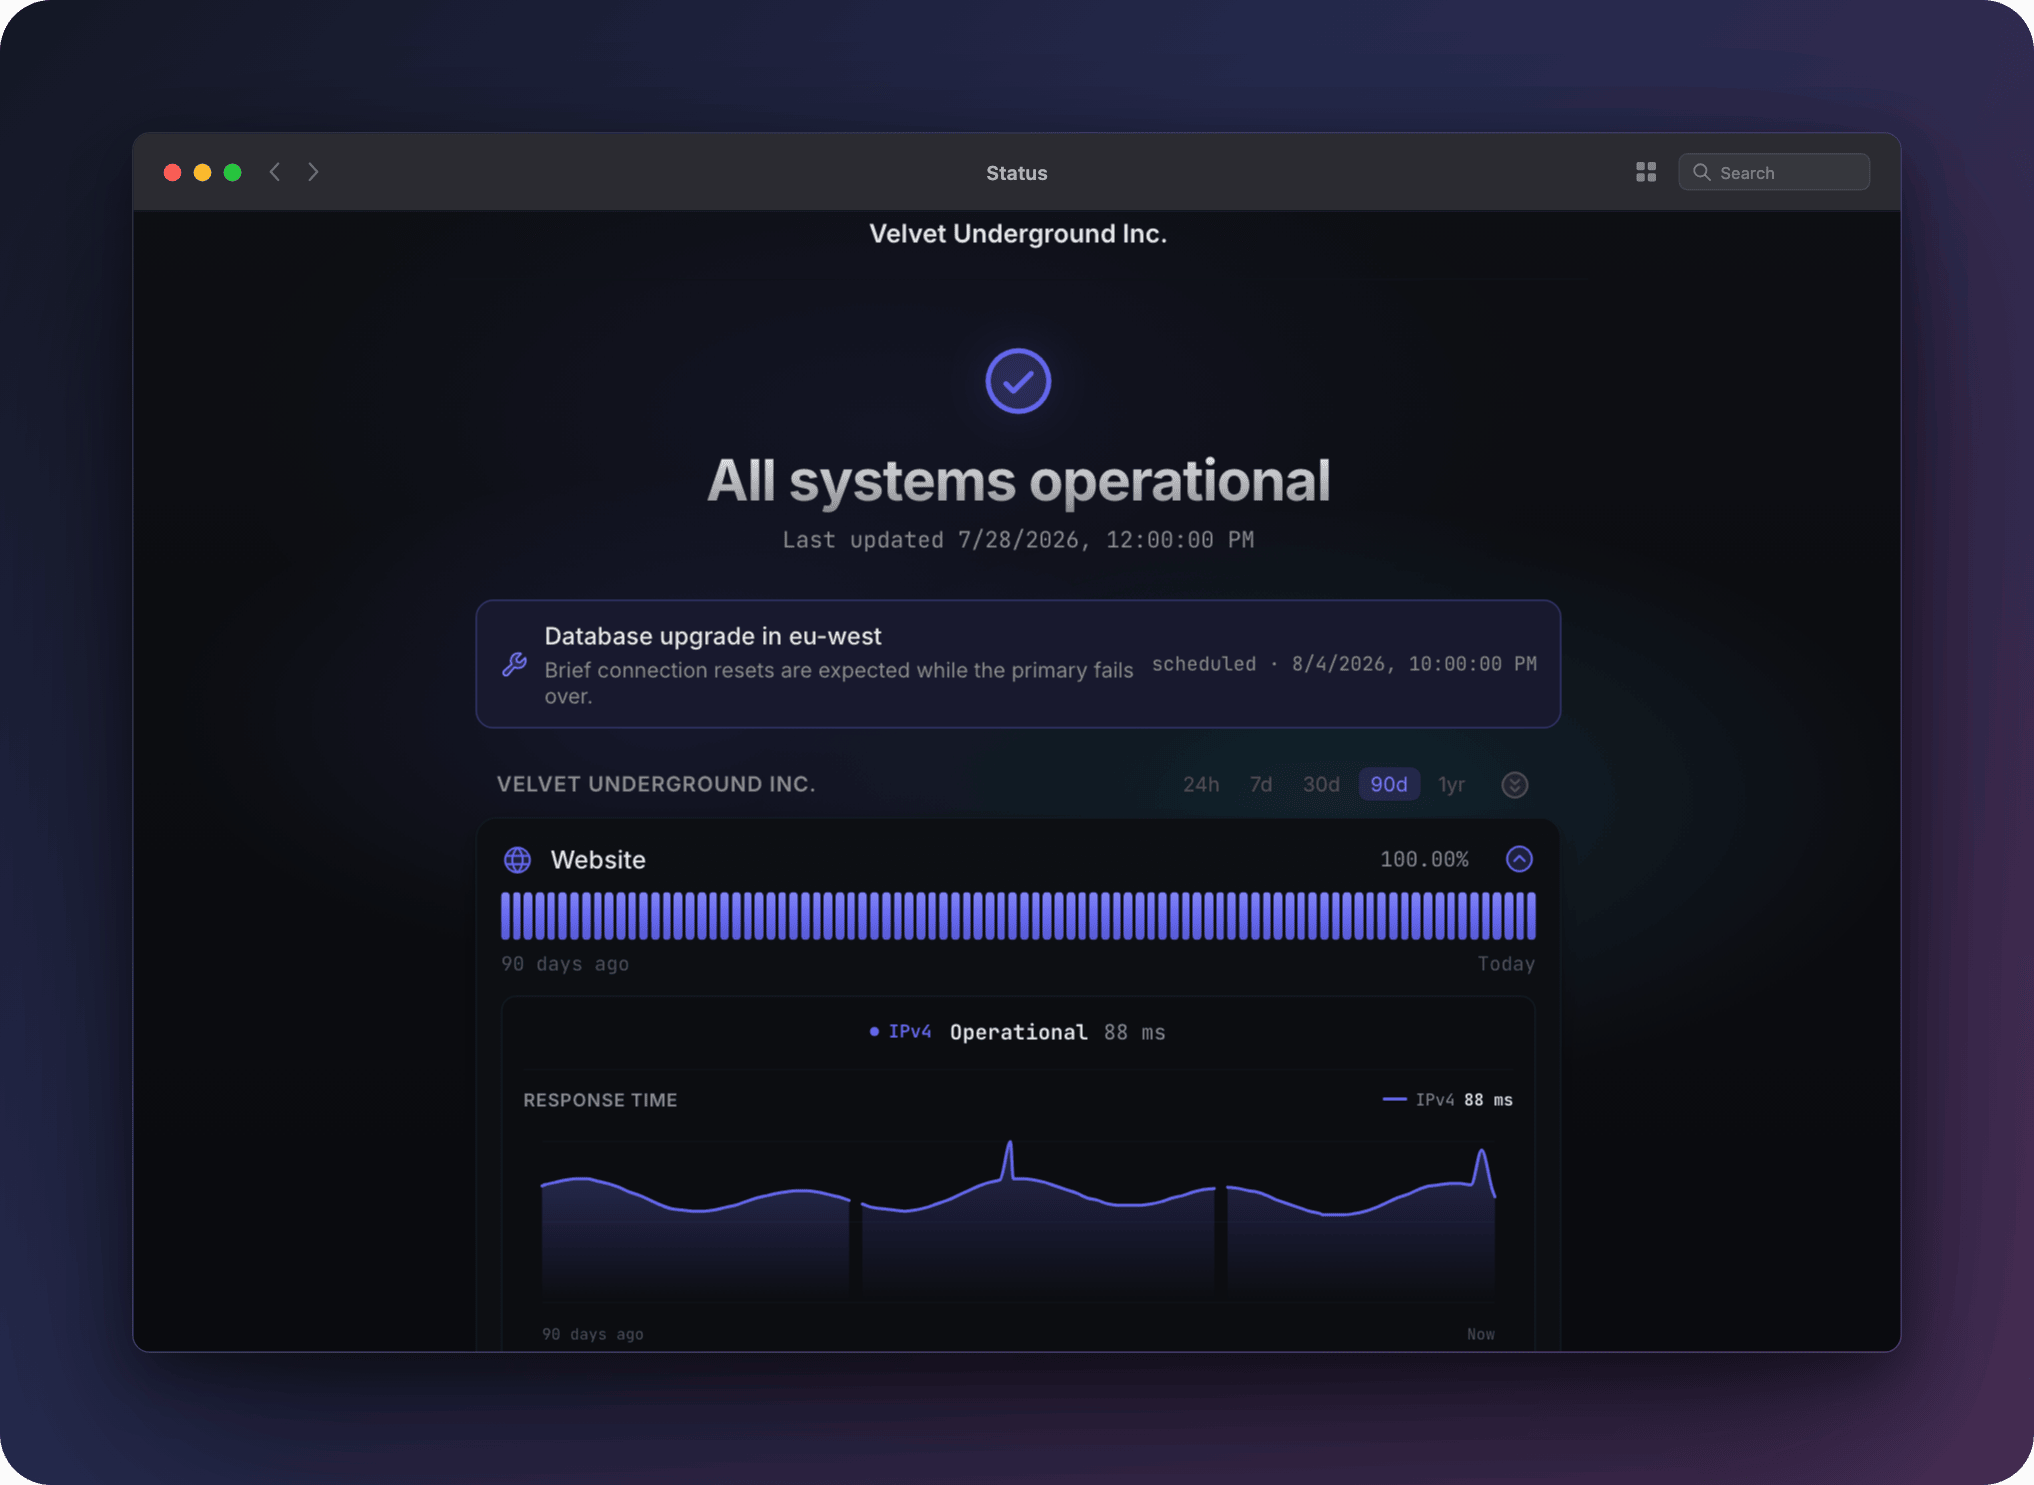
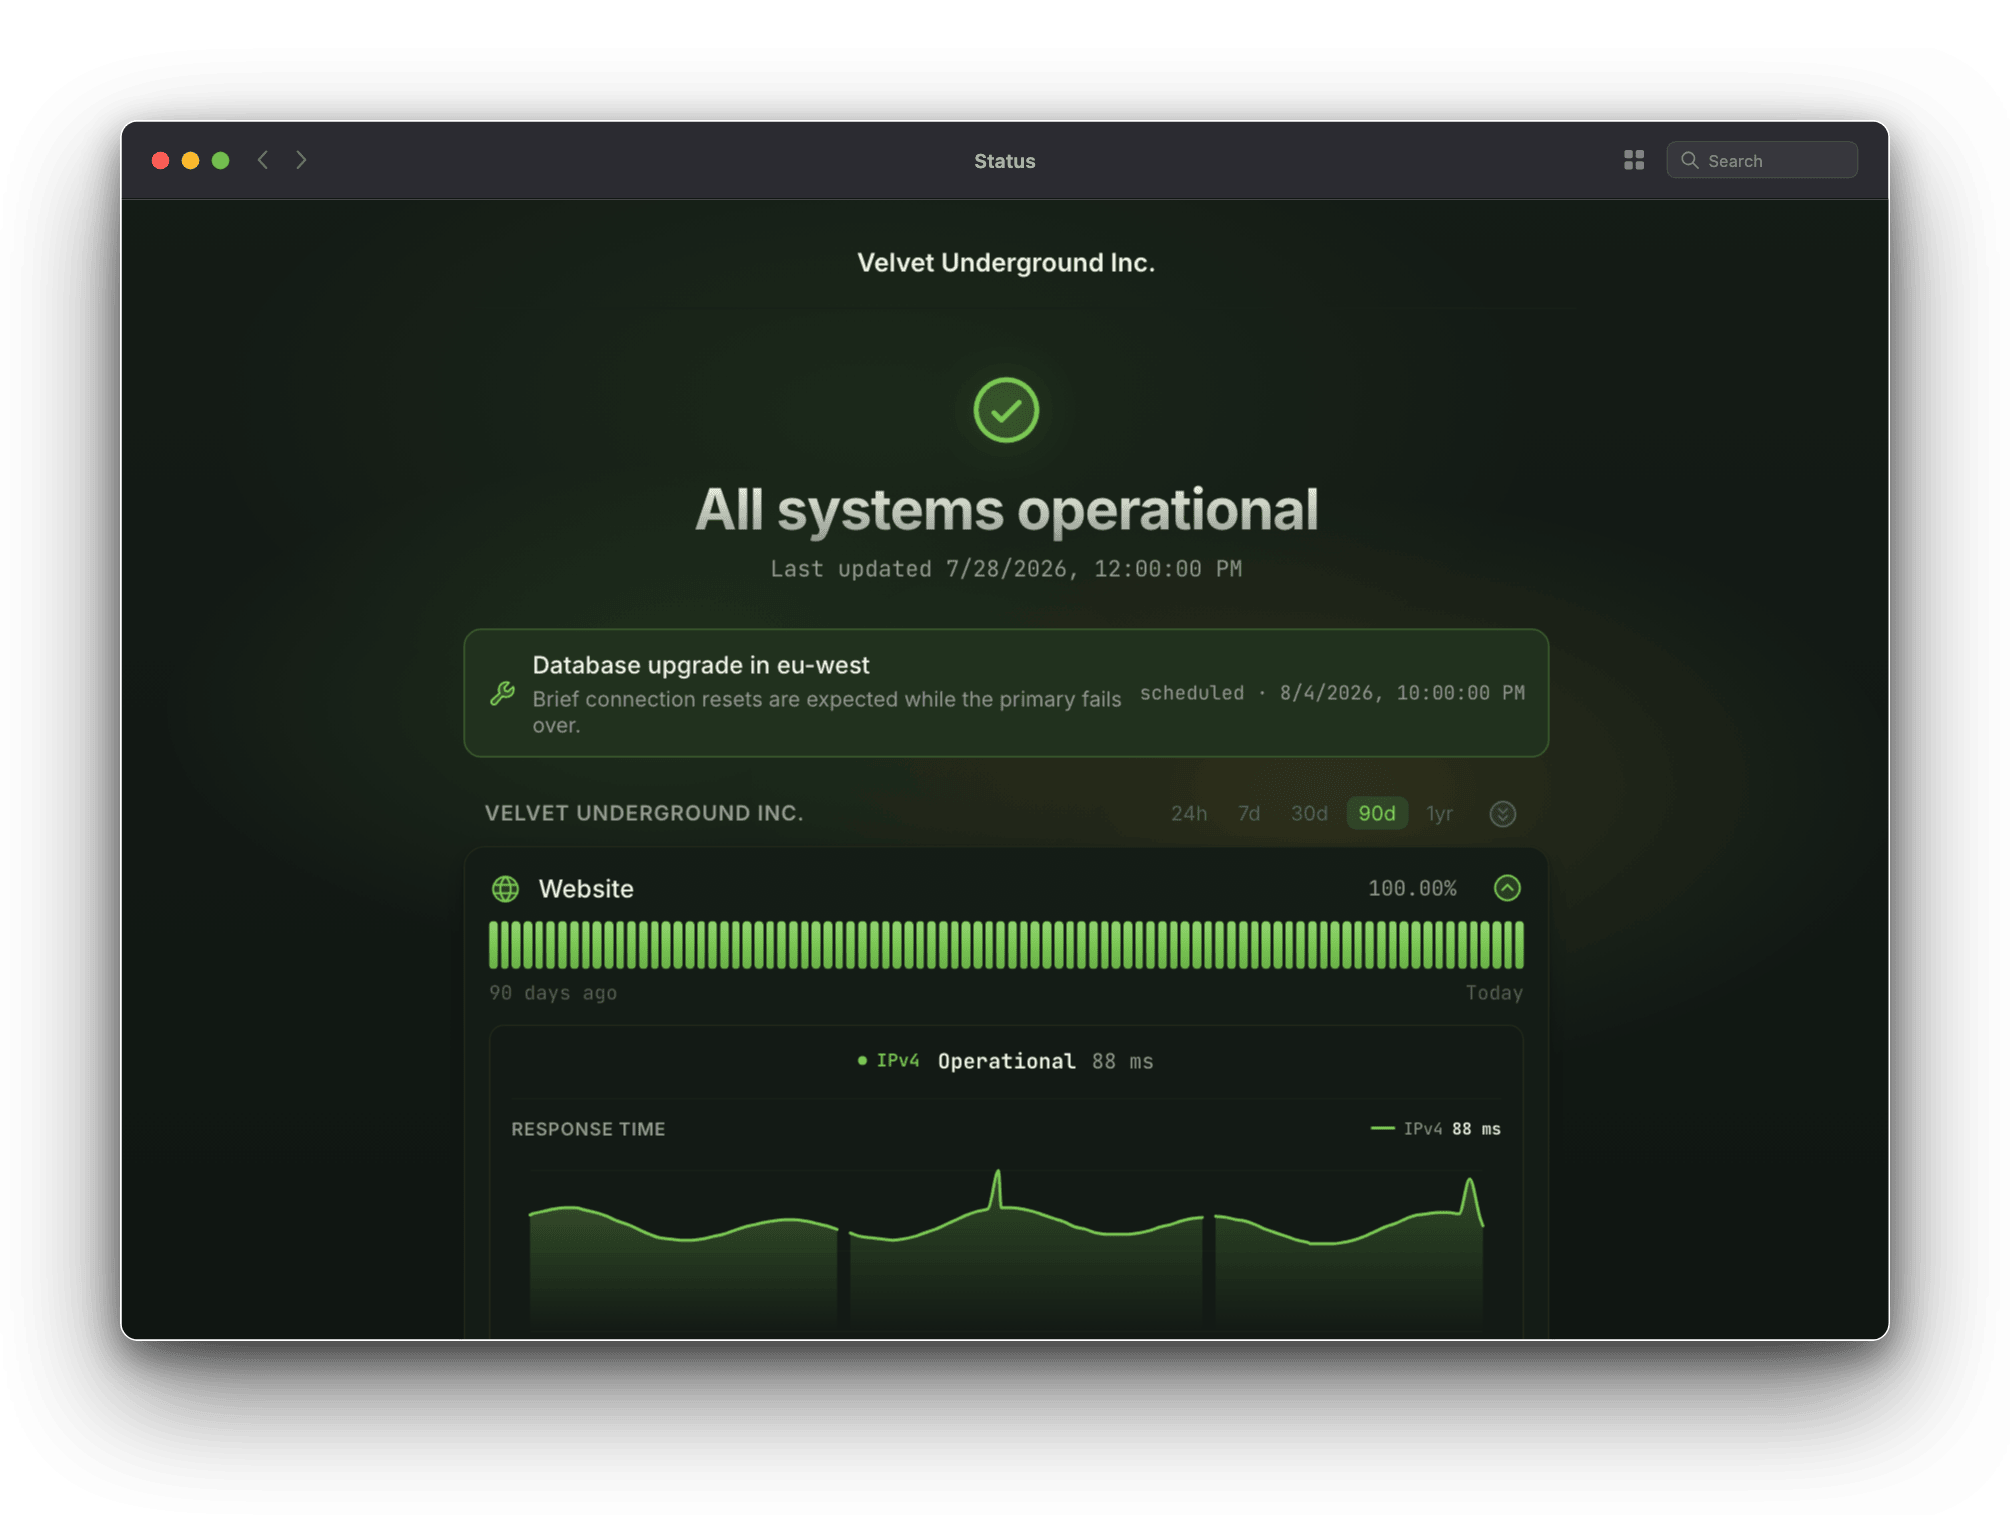
Feat: theme the demo status page with Sunny Spring
The picture opened both the README and the website in the same indigo those
two are lit with, so it read as more of the surface it sits on rather than as
a page somebody had themed.

- Adopt Sunny Spring, one of the four themes an installation can pick, copied
  from the registry rather than invented for the screenshot
- Widen the README's image by the transparent margin the picture now carries,
  so the window inside it stays the size it was

diff --git a/README.md b/README.md
@@ -5,7 +5,7 @@
 **GitHub-native status monitoring and a polished status page, without a server or database.**
 
 <a href="https://setup.velvet.li/onboarding/">
-  <img src="docs/screenshot.png" alt="Velvet status page" width="820">
+  <img src="docs/screenshot.png" alt="Velvet status page" width="930">
 </a>
 
 **[Create your status page](https://setup.velvet.li/onboarding/)**
